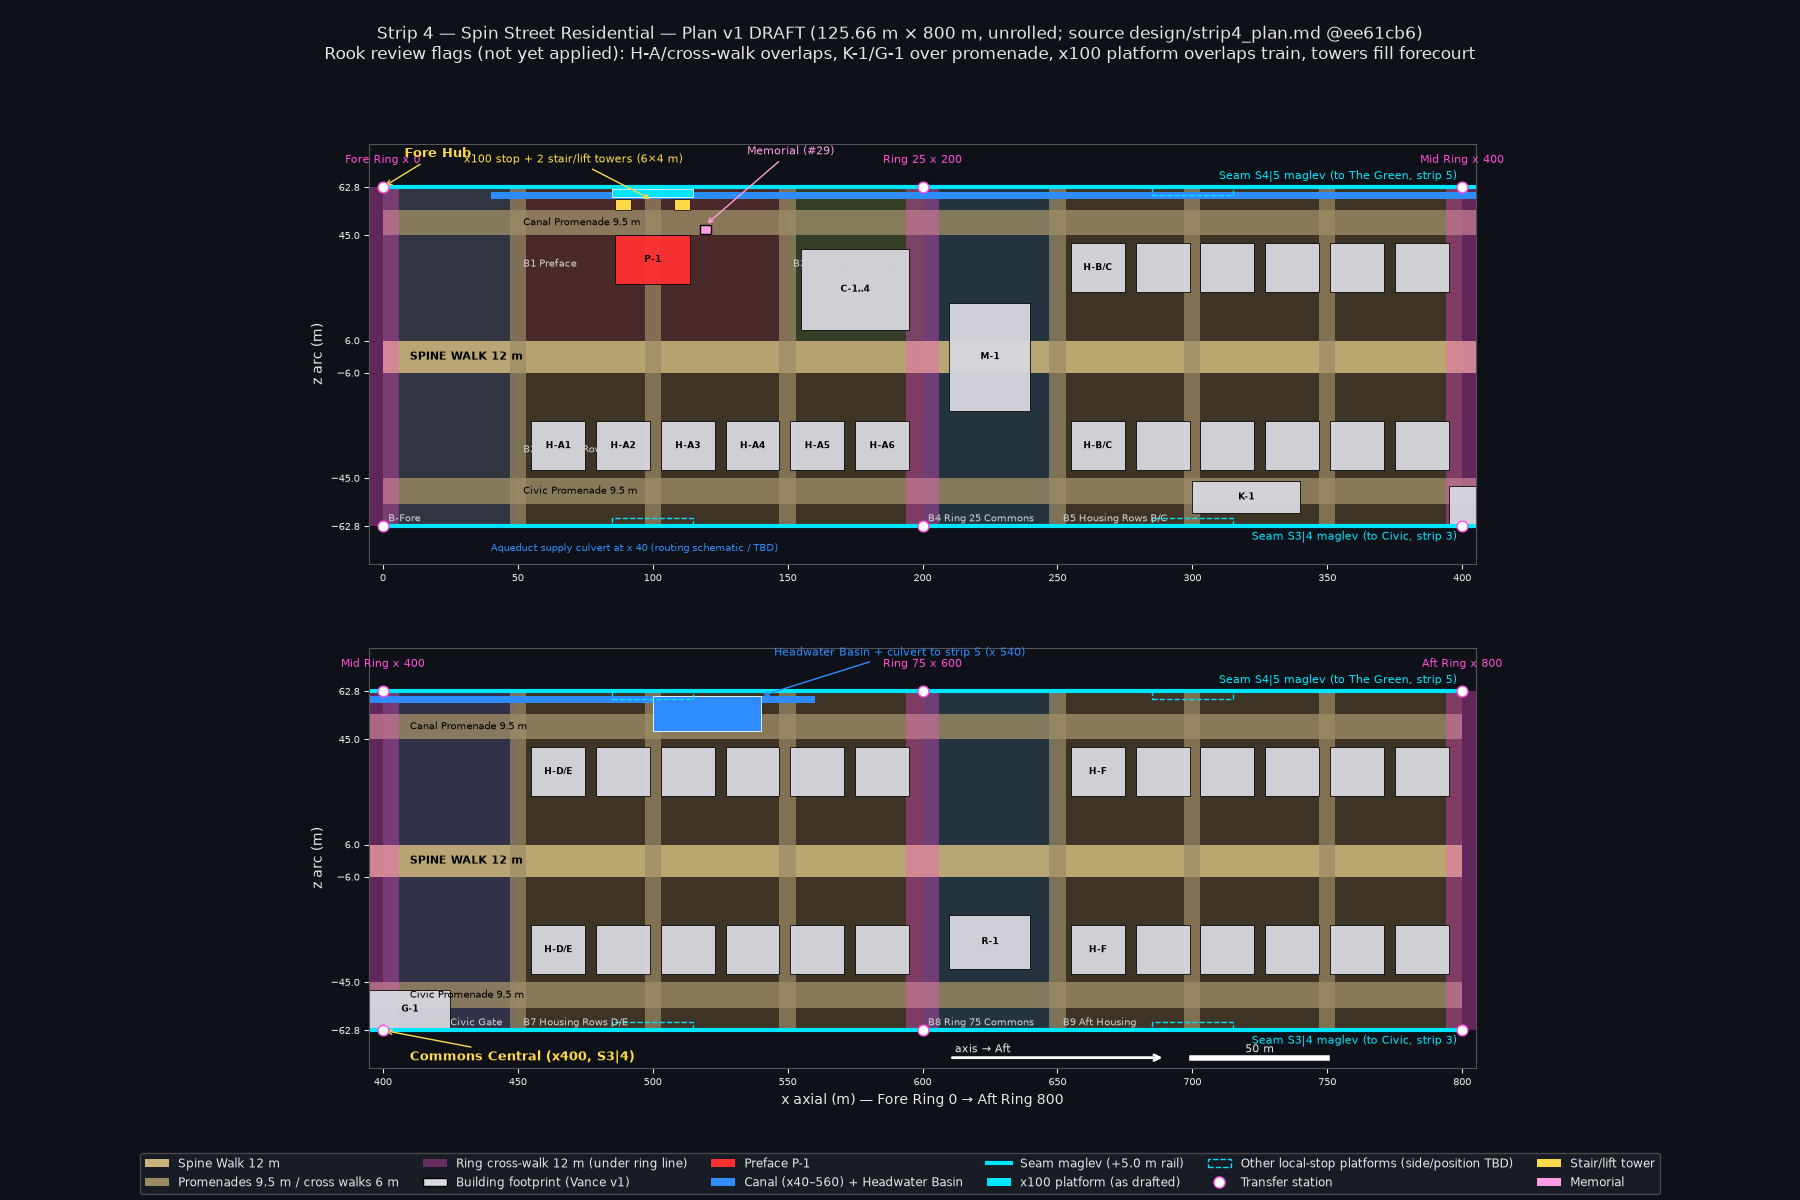
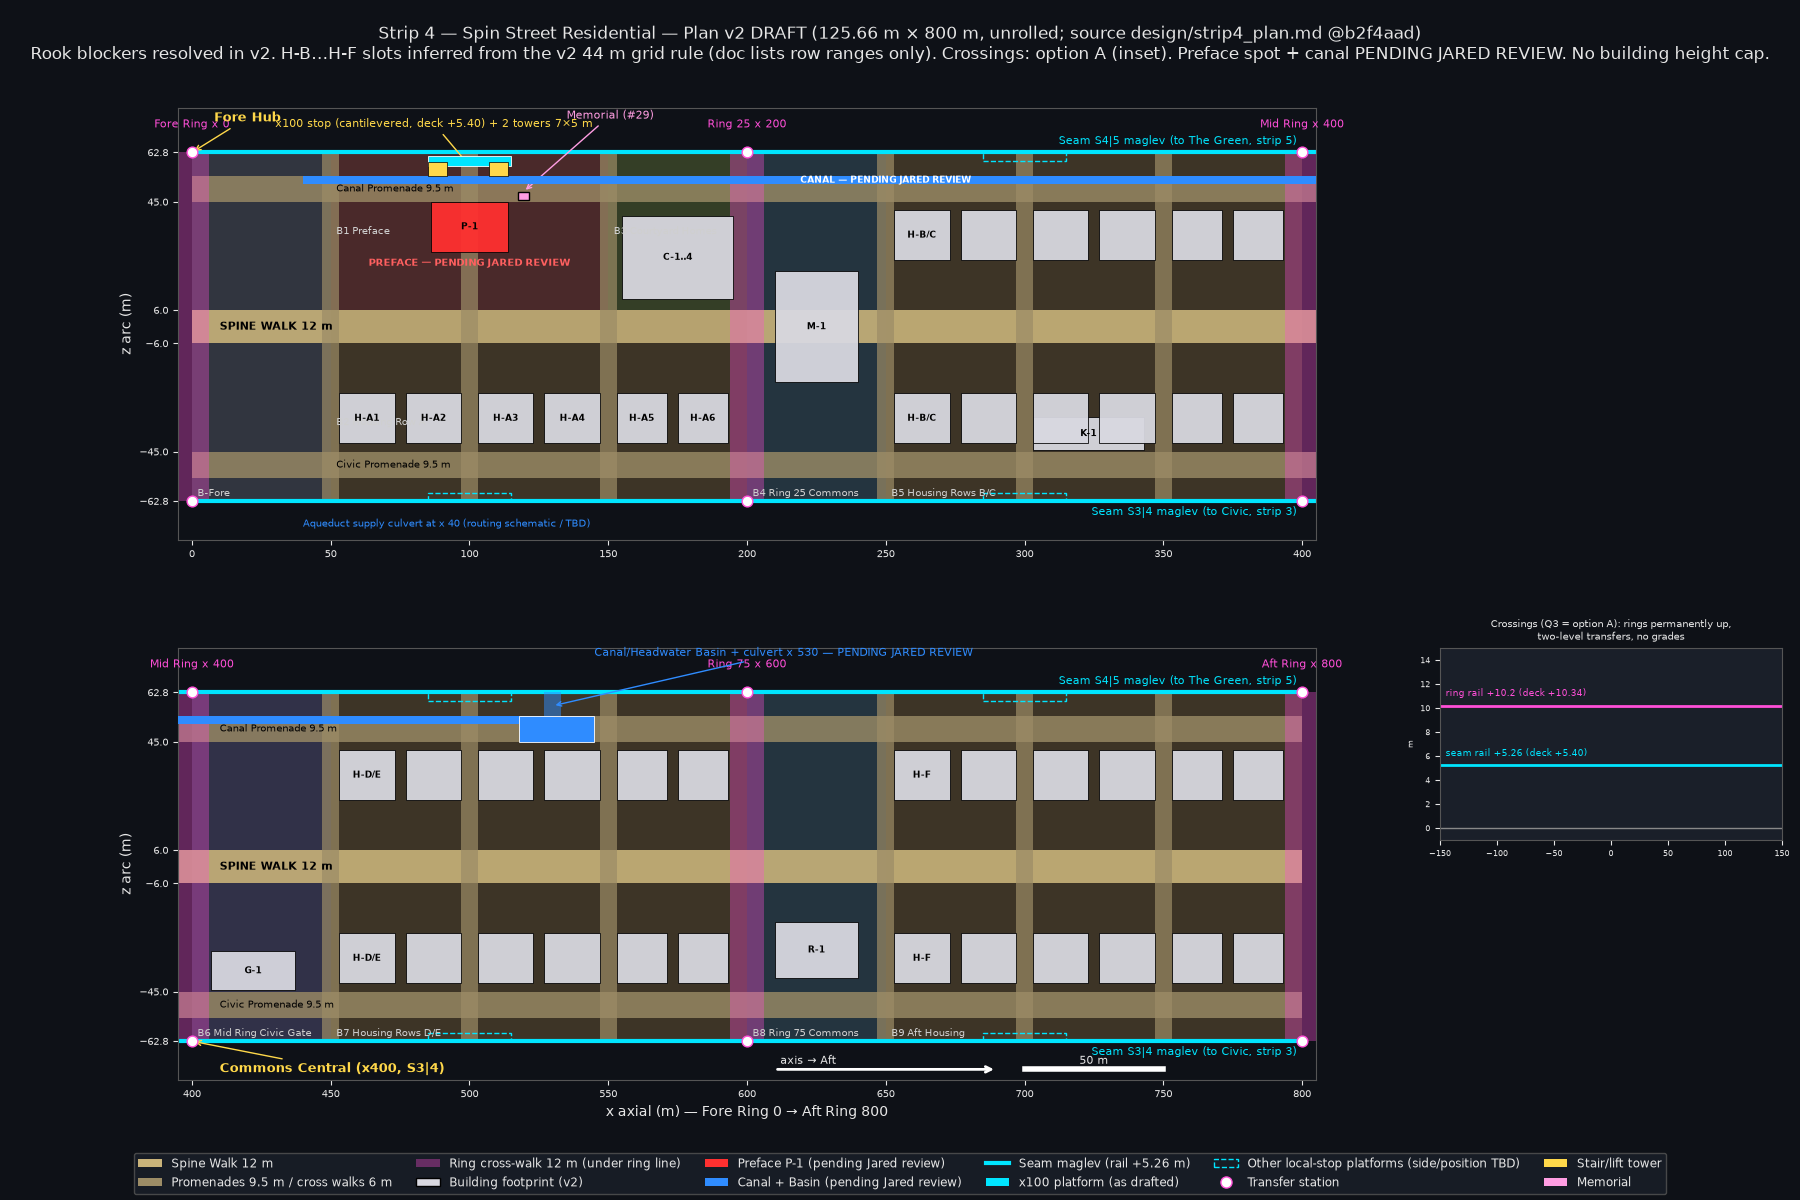
Maps: strip 4 plan to v2 (b2f4aad); crossing option A inset; preface+canal pending Jared review; no height cap

diff --git a/godot/renders/maps/make_maps.py b/godot/renders/maps/make_maps.py
@@ -83,10 +83,12 @@ H=62.83
 blocks=[("B-Fore",0,50,-H,H,"#3a3f4a"),("B1 Preface",50,150,6,H,"#5a3030"),("B2 Housing Row A",50,200,-H,-6,"#4a3e2a"),("B3 Courtyard Homes",150,200,6,H,"#3e4a2a"),
  ("B4 Ring 25 Commons",200,250,-H,H,"#2a3e4a"),("B5 Housing Rows B/C",250,400,-H,H,"#4a3e2a"),("B6 Mid Ring Civic Gate",400,450,-H,H,"#3a3a55"),
  ("B7 Housing Rows D/E",450,600,-H,H,"#4a3e2a"),("B8 Ring 75 Commons",600,650,-H,H,"#2a3e4a"),("B9 Aft Housing",650,800,-H,H,"#4a3e2a")]
-bld=[("P-1",86,114,27,45)]+[(f"H-A{i+1}",55+24*i,75+24*i,-42,-24) for i in range(6)]+[("C-1..4",155,195,10,40),("M-1",210,240,-20,20),("K-1",300,340,-58,-46),("G-1",395,425,-62,-48),("R-1",610,640,-40,-20)]
+HA=[(53,73),(77,97),(103,123),(127,147),(153,171),(175,193)]
+GRID=[(a-50,b-50) for a,b in HA]  # v2 44 m block grid (H-B..F positions inferred from H-A pattern)
+bld=[("P-1",86,114,27,45)]+[(f"H-A{i+1}",a,b,-42,-24) for i,(a,b) in enumerate(HA)]+[("C-1..4",155,195,10,40),("M-1",210,240,-20,20),("K-1",303,343,-44.5,-32.5),("G-1",407,437,-44.5,-30.5),("R-1",610,640,-40,-20)]
 for lab,x0 in (("H-B/C",255),("H-D/E",455),("H-F",655)):
-    for i in range(6):
-        for s in (1,-1): bld.append((lab if i==0 else "",x0+24*i,x0+24*i+20,24*s if s>0 else -42,42 if s>0 else -24))
+    for i,(a,b) in enumerate(GRID):
+        for s in (1,-1): bld.append((lab if i==0 else "",x0-5+a,x0-5+b,24 if s>0 else -42,42 if s>0 else -24))
 for ax,(xa,xb) in zip(axs,((0,400),(400,800))):
     ax.set_aspect("equal")
     for n,x0,x1,z0,z1,c in blocks:
@@ -104,34 +106,41 @@ for ax,(xa,xb) in zip(axs,((0,400),(400,800))):
     for n,x0,x1,z0,z1 in bld:
         ax.add_patch(Rectangle((x0,z0),x1-x0,z1-z0,fc="#d8d8e0" if n!="P-1" else "#ff3030",ec="k",lw=.6,alpha=.95))
         if n: ax.text((x0+x1)/2,(z0+z1)/2,n,ha="center",va="center",fontsize=6.5,color="k",weight="bold",clip_on=True)
-    ax.add_patch(Rectangle((40,58.5),520,2.5,fc="#2f8cff")); ax.add_patch(Rectangle((500,48),40,13,fc="#2f8cff",ec="w",lw=.6))
+    ax.add_patch(Rectangle((40,51.4),490,2.9,fc="#2f8cff",zorder=4)); ax.add_patch(Rectangle((518,45),27,9.3,fc="#2f8cff",ec="w",lw=.6,zorder=4)); ax.add_patch(Rectangle((527,54.3),6,8.5,fc="#2f8cff",alpha=.5,zorder=4))
     for zz,n in ((-H,"Seam S3|4 maglev (to Civic, strip 3)"),(H,"Seam S4|5 maglev (to The Green, strip 5)")):
         ax.plot([0,800],[zz,zz],color="#00e5ff",lw=3); ax.text(xb-2,zz+(3 if zz>0 else -5),n,ha="right",fontsize=8,color="#00e5ff")
     for x in (100,300,500,700):
         for zz in (H,-H):
-            if x==100 and zz>0: ax.add_patch(Rectangle((85,59.3),30,3,fc="#00e5ff",ec="w",lw=.6))
+            if x==100 and zz>0: ax.add_patch(Rectangle((85,57.93),30,3.5,fc="#00e5ff",ec="w",lw=.6,zorder=6))
             else: ax.add_patch(Rectangle((x-15,zz-3 if zz>0 else zz),30,3,fc="none",ec="#00e5ff",lw=1,ls="--"))
     for x in rings:
         for zz in (H,-H): ax.scatter([x],[zz],s=60,c="w",edgecolors="#ff4fd8",zorder=6)
-    for x0 in (86,108): ax.add_patch(Rectangle((x0,54.5),6,4,fc="#ffd84a",ec="k",lw=.5,zorder=6))
+    for x0 in (85,107): ax.add_patch(Rectangle((x0,54.3),7,5,fc="#ffd84a",ec="k",lw=.5,zorder=6))
     ax.add_patch(Rectangle((117.4,45.6),4.2,3.1,fc="#ff9de2",ec="k",zorder=7))
     ax.set_xlim(xa-5,xb+5); ax.set_ylim(-H-14,H+16)
     ax.set_xticks(range(xa,xb+1,50)); ax.set_yticks([-62.83,-45,-6,6,45,62.83]); ax.tick_params(labelsize=7)
     ax.set_ylabel("z arc (m)")
 a0,a1=axs
+a0.text(100,22,"PREFACE — PENDING JARED REVIEW",ha="center",fontsize=7.5,color="#ff6060",weight="bold",zorder=8)
+a0.text(250,52.8,"CANAL — PENDING JARED REVIEW",ha="center",va="center",fontsize=6.5,color="w",weight="bold",zorder=8)
 a0.annotate("Memorial (#29)",(119.5,48.7),xytext=(135,75),fontsize=8,color="#ff9de2",arrowprops=dict(arrowstyle="->",color="#ff9de2"),annotation_clip=False)
-a0.annotate("x100 stop + 2 stair/lift towers (6×4 m)",(100,58),xytext=(30,72),fontsize=8,color="#ffd84a",arrowprops=dict(arrowstyle="->",color="#ffd84a"),annotation_clip=False)
+a0.annotate("x100 stop (cantilevered, deck +5.40) + 2 towers 7×5 m",(100,58),xytext=(30,72),fontsize=8,color="#ffd84a",arrowprops=dict(arrowstyle="->",color="#ffd84a"),annotation_clip=False)
 a0.annotate("Fore Hub",(0,H),xytext=(8,74),fontsize=9,weight="bold",color="#ffd84a",arrowprops=dict(arrowstyle="->",color="#ffd84a"),annotation_clip=False)
 a0.text(40,-72,"Aqueduct supply culvert at x 40 (routing schematic / TBD)",fontsize=7.5,color="#2f8cff")
 a1.annotate("Commons Central (x400, S3|4)",(400,-H),xytext=(410,-74),fontsize=9,weight="bold",color="#ffd84a",arrowprops=dict(arrowstyle="->",color="#ffd84a"),annotation_clip=False)
-a1.annotate("Headwater Basin + culvert to strip 5 (x 540)",(540,61),xytext=(545,76),fontsize=8,color="#2f8cff",arrowprops=dict(arrowstyle="->",color="#2f8cff"),annotation_clip=False)
+a1.annotate("Canal/Headwater Basin + culvert x 530 — PENDING JARED REVIEW",(530,58),xytext=(545,76),fontsize=8,color="#2f8cff",arrowprops=dict(arrowstyle="->",color="#2f8cff"),annotation_clip=False)
 a1.set_xlabel("x axial (m) — Fore Ring 0 → Aft Ring 800")
 a1.plot([700,750],[-73,-73],color="w",lw=4); a1.text(725,-71,"50 m",ha="center",fontsize=8)
 a1.annotate("",xy=(690,-73),xytext=(610,-73),arrowprops=dict(arrowstyle="->",color="w",lw=2)); a1.text(612,-71,"axis → Aft",fontsize=8)
 leg=[Patch(fc="#c9b37a",label="Spine Walk 12 m"),Patch(fc="#9c8c66",label="Promenades 9.5 m / cross walks 6 m"),Patch(fc="#ff4fd8",alpha=.35,label="Ring cross-walk 12 m (under ring line)"),
- Patch(fc="#d8d8e0",ec="k",label="Building footprint (Vance v1)"),Patch(fc="#ff3030",label="Preface P-1"),Patch(fc="#2f8cff",label="Canal (x40–560) + Headwater Basin"),
- Line2D([],[],color="#00e5ff",lw=3,label="Seam maglev (+5.0 m rail)"),Patch(fc="#00e5ff",label="x100 platform (as drafted)"),Patch(fc="none",ec="#00e5ff",ls="--",label="Other local-stop platforms (side/position TBD)"),
+ Patch(fc="#d8d8e0",ec="k",label="Building footprint (v2)"),Patch(fc="#ff3030",label="Preface P-1 (pending Jared review)"),Patch(fc="#2f8cff",label="Canal + Basin (pending Jared review)"),
+ Line2D([],[],color="#00e5ff",lw=3,label="Seam maglev (rail +5.26 m)"),Patch(fc="#00e5ff",label="x100 platform (as drafted)"),Patch(fc="none",ec="#00e5ff",ls="--",label="Other local-stop platforms (side/position TBD)"),
  Line2D([],[],marker="o",ls="",mfc="w",mec="#ff4fd8",ms=8,label="Transfer station"),Patch(fc="#ffd84a",label="Stair/lift tower"),Patch(fc="#ff9de2",label="Memorial")]
 fig.legend(handles=leg,loc="lower center",ncol=6,facecolor="#1a1f29",edgecolor="#555",fontsize=8.5)
-fig.suptitle("Strip 4 — Spin Street Residential — Plan v1 DRAFT (125.66 m × 800 m, unrolled; source design/strip4_plan.md @ee61cb6)\nRook review flags (not yet applied): H-A/cross-walk overlaps, K-1/G-1 over promenade, x100 platform overlaps train, towers fill forecourt",fontsize=12)
-fig.tight_layout(rect=(0,0.07,1,0.95)); fig.savefig(OUT+"strip4_plan.png",facecolor=BG); plt.close(fig)
+fig.suptitle("Strip 4 — Spin Street Residential — Plan v2 DRAFT (125.66 m × 800 m, unrolled; source design/strip4_plan.md @b2f4aad)\nRook blockers resolved in v2. H-B…H-F slots inferred from the v2 44 m grid rule (doc lists row ranges only). Crossings: option A (inset). Preface spot + canal PENDING JARED REVIEW. No building height cap.",fontsize=12)
+ins=fig.add_axes([0.80,0.30,0.19,0.16]); ins.set_facecolor("#1a1f29"); ins.axhline(0,color="#888",lw=1)
+ins.plot([-150,150],[5.26,5.26],color="#00e5ff",lw=2); ins.plot([-150,150],[10.2,10.2],color="#ff4fd8",lw=2)
+ins.text(-145,11,"ring rail +10.2 (deck +10.34)",fontsize=6.5,color="#ff4fd8"); ins.text(-145,6,"seam rail +5.26 (deck +5.40)",fontsize=6.5,color="#00e5ff")
+ins.set_xlim(-150,150); ins.set_ylim(-1,15); ins.tick_params(labelsize=6); ins.set_ylabel("m",fontsize=6)
+ins.set_title("Crossings (Q3 = option A): rings permanently up,\ntwo-level transfers, no grades",fontsize=7.5)
+fig.subplots_adjust(left=0.05,right=0.78,top=0.91,bottom=0.1,hspace=0.25); fig.savefig(OUT+"strip4_plan.png",facecolor=BG); plt.close(fig)
